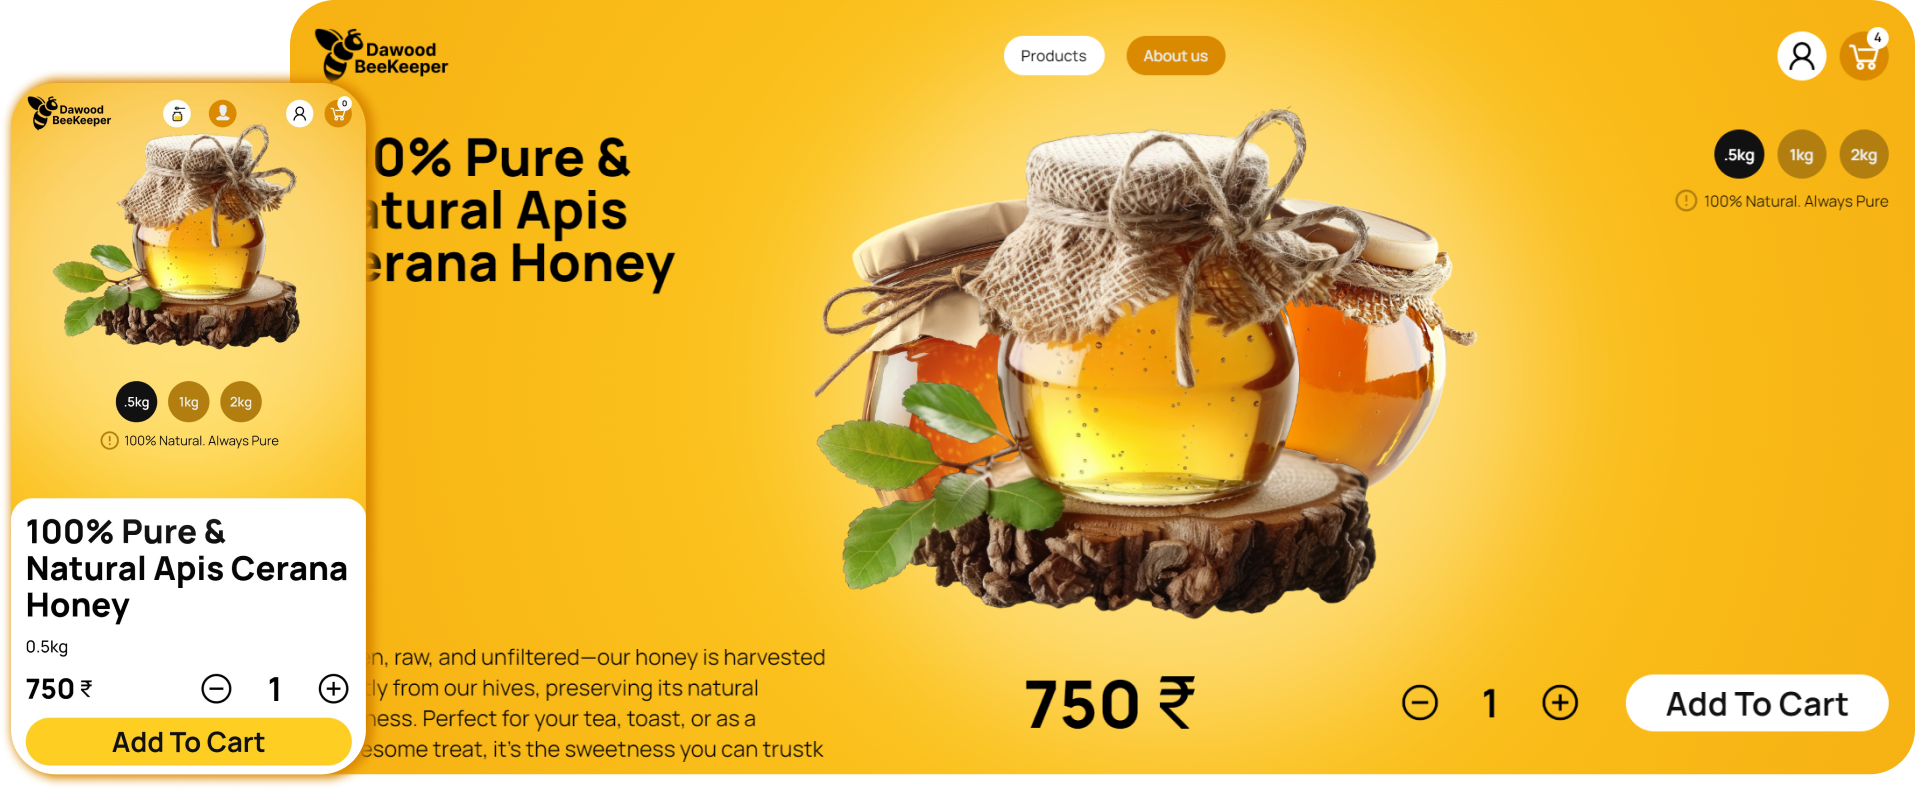
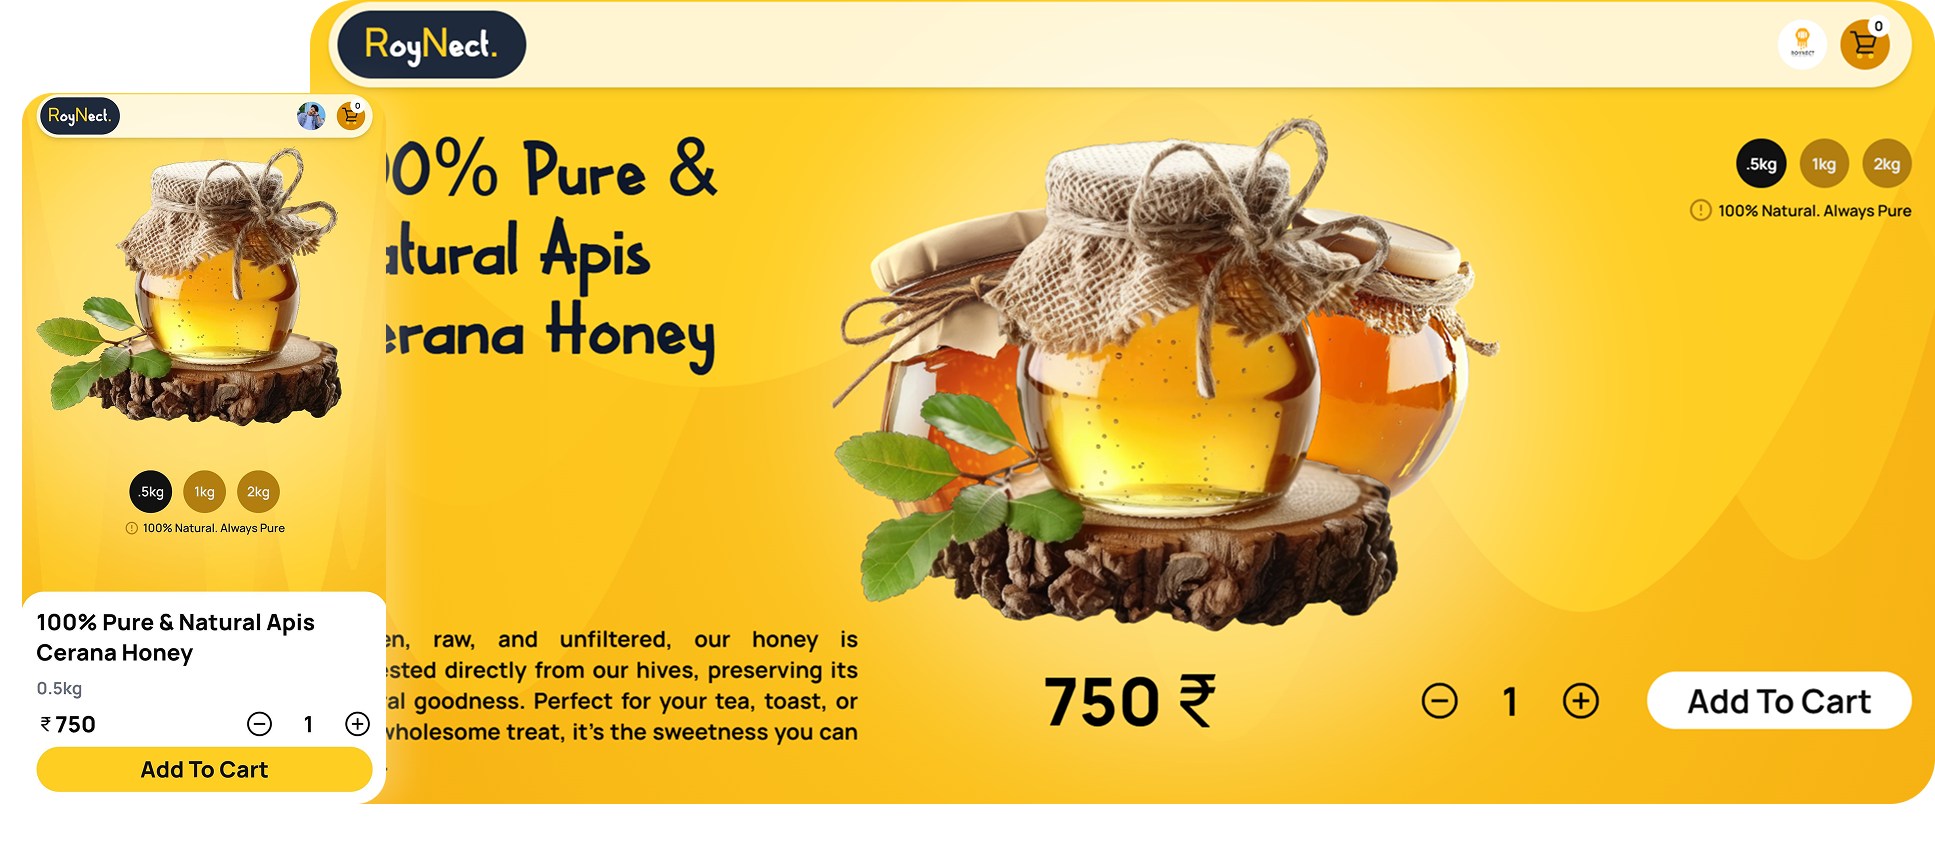
Replaced dawood beekeeper with roynect

diff --git a/src/Components/Projects/Projects.jsx b/src/Components/Projects/Projects.jsx
@@ -3,7 +3,7 @@ import fadeIn from "../../Framer/Fadein.js";
 import Project from "./Project";
 import { bakes, blog, honey, Logo} from "./Logos/projectLogos.js";
 import { Portfolio, Bakery,Blog, Honey } from "./Images/ScreenShots";
-import { js, css, html, react, tw, firebase,vite,appwrite ,framer} from "../Skills/Icons/Icons";
+import { js, css, html, react, tw, firebase,vite,appwrite ,framer, express} from "../Skills/Icons/Icons";
 export default function Projects() {
   return (
     <div
@@ -58,14 +58,15 @@ export default function Projects() {
           />
           <Project
             logo={honey}
-            title="Dawood BeeKeeper"
-            desc="An online store dedicated to selling pure and natural honey sourced from Bhadarwah. The platform offers a seamless shopping experience, secure checkout, real-time order tracking, and an admin dashboard to manage orders, users, and inventory."
+            title="RoyNect"
+            desc="Roynect is a premium honey store from Bhadarwah, offering a seamless shopping experience with secure checkout, order tracking, and easy management."
             skill1={react}
             skill2={tw}
             skill3={firebase}
+            skill4={express}
             sc={Honey}
-            git="https://github.com/mohdfaziel/E-Commerce-Honey-Selling-Website-"
-            link="https://dawood-beekeeper.vercel.app/"
+            git="https://github.com/mohdfaziel/RoyNect"
+            link="https://roynect.vercel.app/product"
           />
         </div>
       <div className="w-[300px] rounded-full h-[300px] absolute animate-customPulse blur-3xl bg-active opacity-20 -top-[85px] -right-[150px]" />

diff --git a/src/Components/Projects/Project.jsx b/src/Components/Projects/Project.jsx
@@ -9,6 +9,7 @@ export default function Project({
   skill1 = false,
   skill2 = false,
   skill3 = false,
+  skill4 = false,
   sc,
   git,
   link,
@@ -19,7 +20,7 @@ export default function Project({
       initial="hidden"
       whileInView={"show"}
       viewport={{ once: false, amount: 0.1 }}
-      className=" border-[1px] flex justify-start backdrop-blur-md items-center border-active overflow-hidden relative px-8 py-8 rounded-2xl min-h-[50%] w-full"
+      className=" border-[1px] h-[25rem] md:h-fit flex justify-start backdrop-blur-md items-start md:items-center border-active overflow-hidden relative p-4 md:p-6 rounded-2xl min-h-[50%] w-full"
     >
       <div className="Info z-10 flex flex-col gap-3 justify-center items-start w-[100%] md:w-[50%]">
         <div className="Logo w-[4rem] h-[4rem]">
@@ -36,6 +37,7 @@ export default function Project({
           {skill1 && <img className="w-6" src={skill1} alt="" />}
           {skill2 && <img className="w-6" src={skill2} alt="" />}
           {skill3 && <img className="w-6" src={skill3} alt="" />}
+          {skill4 && <img className="w-6" src={skill4} alt="" />}
         </div>
         <a href={link} target="_blank">
           <AniButton />
@@ -43,7 +45,7 @@ export default function Project({
       </div>
       <img
         src={sc}
-        className="rounded-xl w-[25rem]  md:w-[40rem] max-w-[45rem] -right-[220px] -bottom-[50px] md:-right-28 md:-bottom-[10px] absolute"
+        className="rounded-xl w-[25rem]  md:w-[40rem] max-w-[45rem] -right-[210px] -bottom-[40px] md:-right-28 md:-bottom-[15px] absolute"
         alt=""
       />
     </motion.div>
